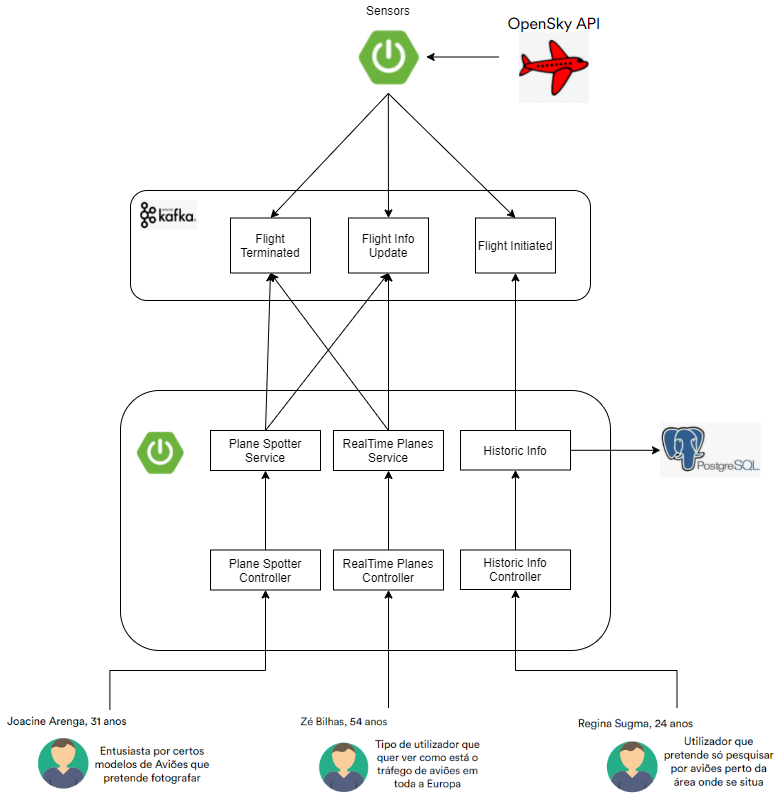
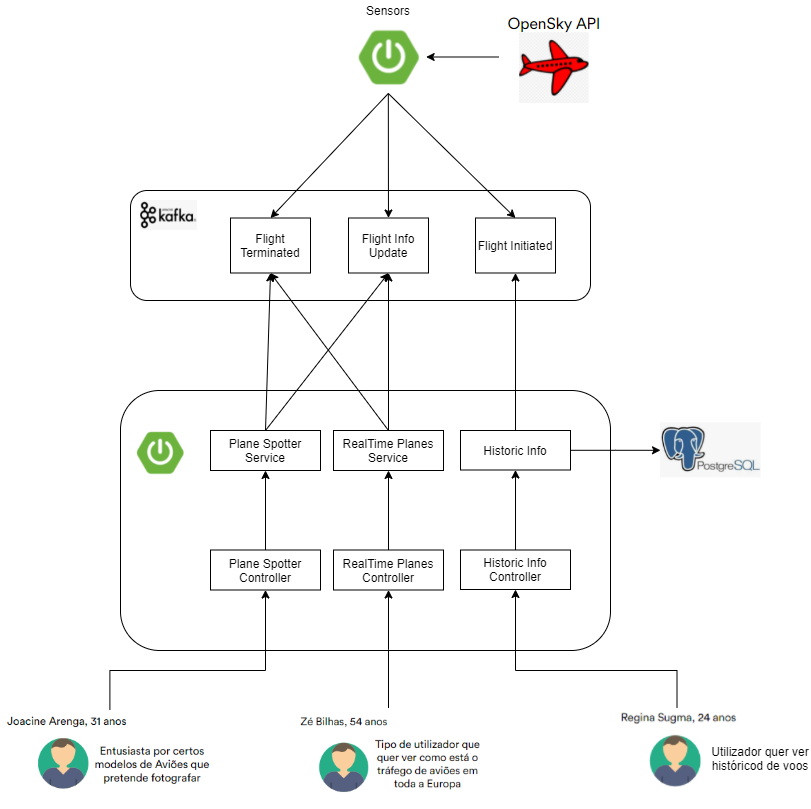
small fixes

diff --git a/index.html b/index.html
@@ -131,7 +131,7 @@
 
         <div class="row portfolio-container" data-aos="fade-up">
           <div class="col-lg-6 pt-4 pt-lg-0 portfolio-item filter-client">
-            <li>Client Area</li>
+            <h3>Client Area</h3>
             <br>
             <br>
 			      <p>
@@ -144,59 +144,45 @@
           </div>
 
           <div class="col-lg-6 pt-4 pt-lg-0 portfolio-item filter-app">
-            <li>Scenarios</li>
+            <h3>Scenarios</h3>
             <br>
             <br>
-			      <p>
-              Tracking of All Flight:
-            </p>
-            <ul>
-			  <li> Possibility to display information about all flights over Europe.</li>
-            </ul>
-            <p>
-              Filtered Informtation:
-            </p>
-            <ul>
-			  <li> The user will be ableto filter the list of flights based on model or location</li>
-            </ul>
-            <p>
-              Historical records:
-            </p>
-            <ul>
-			  <li>  Our database store data from previous days </li>
-            </ul>
-         
+			      <li>Tracking of All Flight: Possibility to display information about all flights over Europe.</li>
+            <br>
+
+            <li> Filtered Informtation: The user will be ableto filter the list of flights based on model or location</li>
+            <br>
+
+            <li> Historical records: Our database store data from previous days </li>
+            
           </div>
 
           <div class="col-lg-6 pt-4 pt-lg-0 portfolio-item filter-card">
-            <li>Personas</li>
+            <h3>Personas</h3>
             <br>
             <br>
-			<p>
-              Three personas were specified:
-            </p>
             <ul>
 			  <li> Zé Bilhas , 54 years old</li>
             </ul>
             <p>
-              Someone which is curious about European air traffic from time to time.
+              Someone which is curious about European air traffic from time to time and whishes to receive realtime information about the ongoing flights
 			      </p>
             <ul>
 			  <li> Joacine Arenga, 31 years old</li>
             </ul>
             <p>
-             Airplane enthusiast who  plans to photograph different models of aircrafts.
+             Airplane enthusiast who plans to photograph different models of aircrafts. Joacine hopes interFlight will be usefull by being hable to filter planes by model and know the current location of planes she is interested in.
 			</p>
 			<ul>
 			  <li> Regina Sugma, 24 years old</li>
 			</ul>
             <p>
-              User that wants to search for airplanes nearby her location.
+              User that whishes to have information about flight history in the last days.
             </p>
           </div>
 
           <div class="col-lg-6 pt-4 pt-lg-0 portfolio-item filter-web">
-            <li>System Architecture</li>
+            <h3>System Architecture</h3>
             <br>
             <br>
            <img src="assets/img/portfolio/esArch.png" alt="Arquitetura InterFlight" width="600" height="600">
